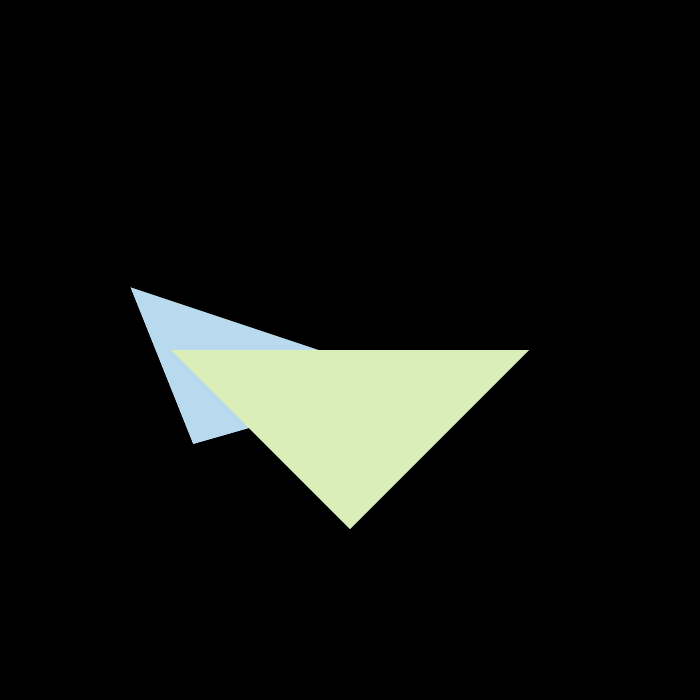
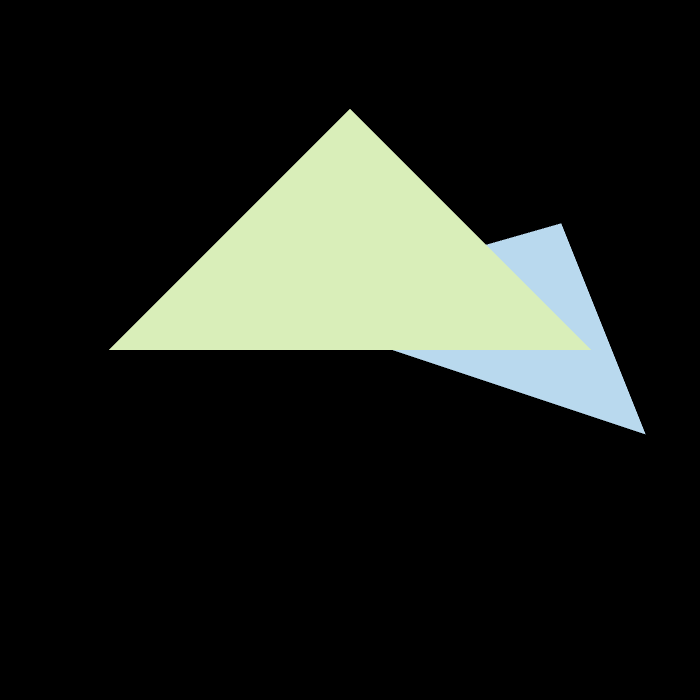
fix projection bug

Changed region(s): [[0.15, 0.15, 0.93, 0.75]]

diff --git a/1/main.cpp b/1/main.cpp
@@ -39,13 +39,13 @@ Eigen::Matrix4f get_model_matrix(float rotation_angle)
 Eigen::Matrix4f get_projection_matrix(float eye_fov, float aspect_ratio,
                                       float zNear, float zFar)
 {
-    // Students will implement this function
+// Students will implement this function
 
     Eigen::Matrix4f projection = Eigen::Matrix4f::Identity();
 
-    float alpha = eye_fov;
+    float alpha = eye_fov / 180 * MY_PI;
     float n = zNear, f = zFar;
-    float t = tan(alpha/2) * abs(n), r = t * aspect_ratio;
+    float t = -tan(alpha/2) * abs(n), r = t * aspect_ratio;
     float b = -t, l = -r;
 
     Eigen::Matrix4f p2o;
@@ -55,15 +55,15 @@ Eigen::Matrix4f get_projection_matrix(float eye_fov, float aspect_ratio,
            0, 0, 1, 0;
 
     Eigen::Matrix4f translation; 
-    translation << 1, 0, 0, 0,
-                   0, 1, 0, 0,
-                   0, 0, 1, 0,
+    translation << 1, 0, 0, -(l+r)/2,
+                   0, 1, 0, -(b+t)/2,
+                   0, 0, 1, -(n+f)/2,
                    0, 0, 0, 1;
 
     Eigen::Matrix4f zoom;
-    zoom << 2/(r-l+eps), 0, 0, 0,
-            0, 2/(t-b+eps), 0, 0,
-            0, 0, 2/(n-f+eps), 0,
+    zoom << 2/(r-l), 0, 0, 0,
+            0, 2/(t-b), 0, 0,
+            0, 0, 2/(n-f), 0,
             0, 0, 0, 1;
 
     Eigen::Matrix4f o = zoom * translation;

diff --git a/2/main.cpp b/2/main.cpp
@@ -30,14 +30,13 @@ Eigen::Matrix4f get_model_matrix(float rotation_angle)
 
 Eigen::Matrix4f get_projection_matrix(float eye_fov, float aspect_ratio, float zNear, float zFar)
 {
-    // TODO: Copy-paste your implementation from the previous assignment.
-    // Students will implement this function
+// Students will implement this function
 
     Eigen::Matrix4f projection = Eigen::Matrix4f::Identity();
 
-    float alpha = eye_fov;
+    float alpha = eye_fov / 180 * MY_PI;
     float n = zNear, f = zFar;
-    float t = tan(alpha/2) * abs(n), r = t * aspect_ratio;
+    float t = -tan(alpha/2) * abs(n), r = t * aspect_ratio;
     float b = -t, l = -r;
 
     Eigen::Matrix4f p2o;
@@ -47,9 +46,9 @@ Eigen::Matrix4f get_projection_matrix(float eye_fov, float aspect_ratio, float z
            0, 0, 1, 0;
 
     Eigen::Matrix4f translation; 
-    translation << 1, 0, 0, 0,
-                   0, 1, 0, 0,
-                   0, 0, 1, 0,
+    translation << 1, 0, 0, -(l+r)/2,
+                   0, 1, 0, -(b+t)/2,
+                   0, 0, 1, -(n+f)/2,
                    0, 0, 0, 1;
 
     Eigen::Matrix4f zoom;

diff --git a/3/readme.md b/3/readme.md
@@ -1,0 +1,37 @@
+# Assignment 3
+
+## Task:
+
+Implement: interpolation, Blinn-Phong reflectance model. 
+
+**Key words**: Shading, Blinn-Phong Reflectance Model, texture mapping.
+
+PPT: 7-9
+
+## Recall:
+
+1. Blinn-Phong Reflectance Model   ($\vec l, \vec n, \vec v$ represent direction of light, normal, view respectively, and their length is 1.)
+   1. Diffuse: $k_d (I / r^2) \max(0, \vec n \cdot \vec l )$ . $I$ is energy arrived at the shading point.
+   2. Specular: $k_s(I/r^2)\max(0,\vec n \cdot \vec h)^p$.  $\vec h = \frac{\vec v + \vec l}{\parallel \vec v + \vec l\parallel}$ (half vector). Increasing $p$ make reflection lobe narrow. 
+   3. Ambient: $k_aI_a$
+2. Shading frequencies
+   1. Flat shading. Each triangle.
+   2. Gouraud shading. Each vertex, interpolate colors.
+   3. Phong shading. Each pixel. Interpolate normal vectors across triangle.
+3. Graphics pipeline
+   1. Vertex processing -> Triangle processing -> Rasterization -> Fragment processing -> Framebuffer operations.
+   2. https://www.shadertoy.com/view/ld3Gz2
+4. Barycentric Coordinates(重心坐标), for interpolating.
+   1. For $P(x,y)$, $(x, y) \to (\alpha, \beta, \gamma)$ . $\alpha = \frac{S_{BCP}}{S_{ABC}}, \beta = \frac{S_{ACP}}{S_{ABC}}, \gamma = 1-\alpha-\beta$.
+   2. $V_P = \alpha V_A + \beta V_B + \gamma V_C$. $V$ can be any attributes.
+5. Texture mapping
+   1. Each triangle vertex is assigned a texture coordinate (u, v).
+   2. Magnification? Sampling problem.
+      1. Insufficient texture resolution. Blur.
+      2. Otherwise. Sampling on large range. Moire(摩尔纹). 
+         1. Data structure for range queries. Mipmap(square). Anisotropic Filtering.
+
+
+
+## Code:
+
